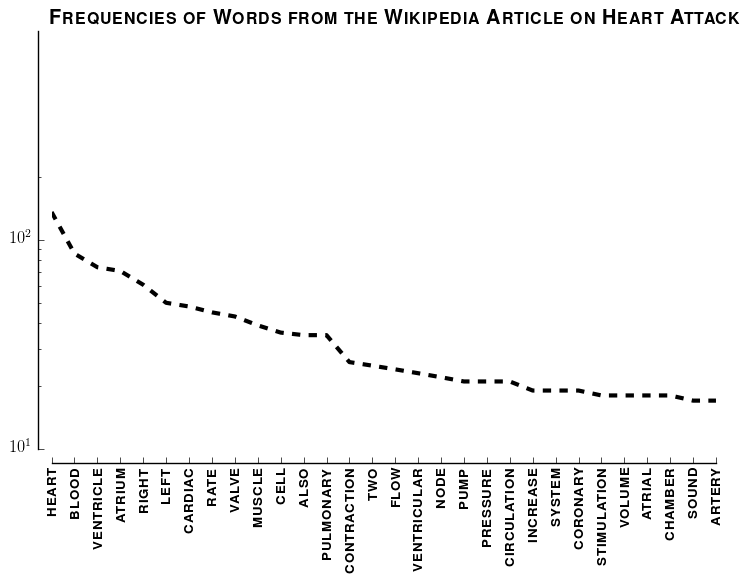
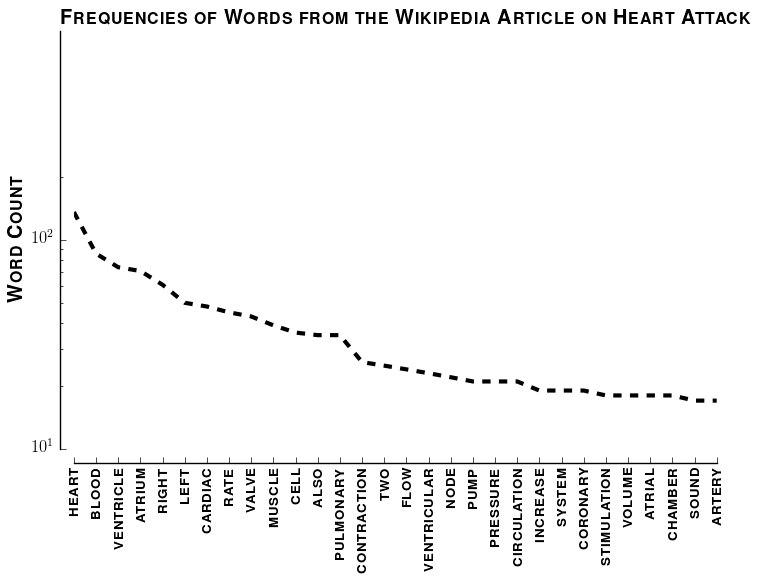
----

diff --git a/Temporary/access_wikipedia_nltk_test.py b/Temporary/access_wikipedia_nltk_test.py
@@ -33,10 +33,11 @@ artist.adjust_spines(ax)
 
 ax.set_xticks(xrange(len(words)))
 ax.set_xticklabels([r'\textbf{\textsc{%s}'%word for word in words],rotation='vertical')
+ax.set_ylabel(artist.format("Word Count"))
 
 
 ax.set_title(artist.format("Frequencies of Words from the Wikipedia Article on Heart Attack"))
 
 plt.tight_layout()
 plt.show()
-plt.savefig("wikipedia-word-frequencies.png", bbox_inches="tight")  
+plt.savefig("wikipedia-word-frequencies.png", bbox_inches="tight")
